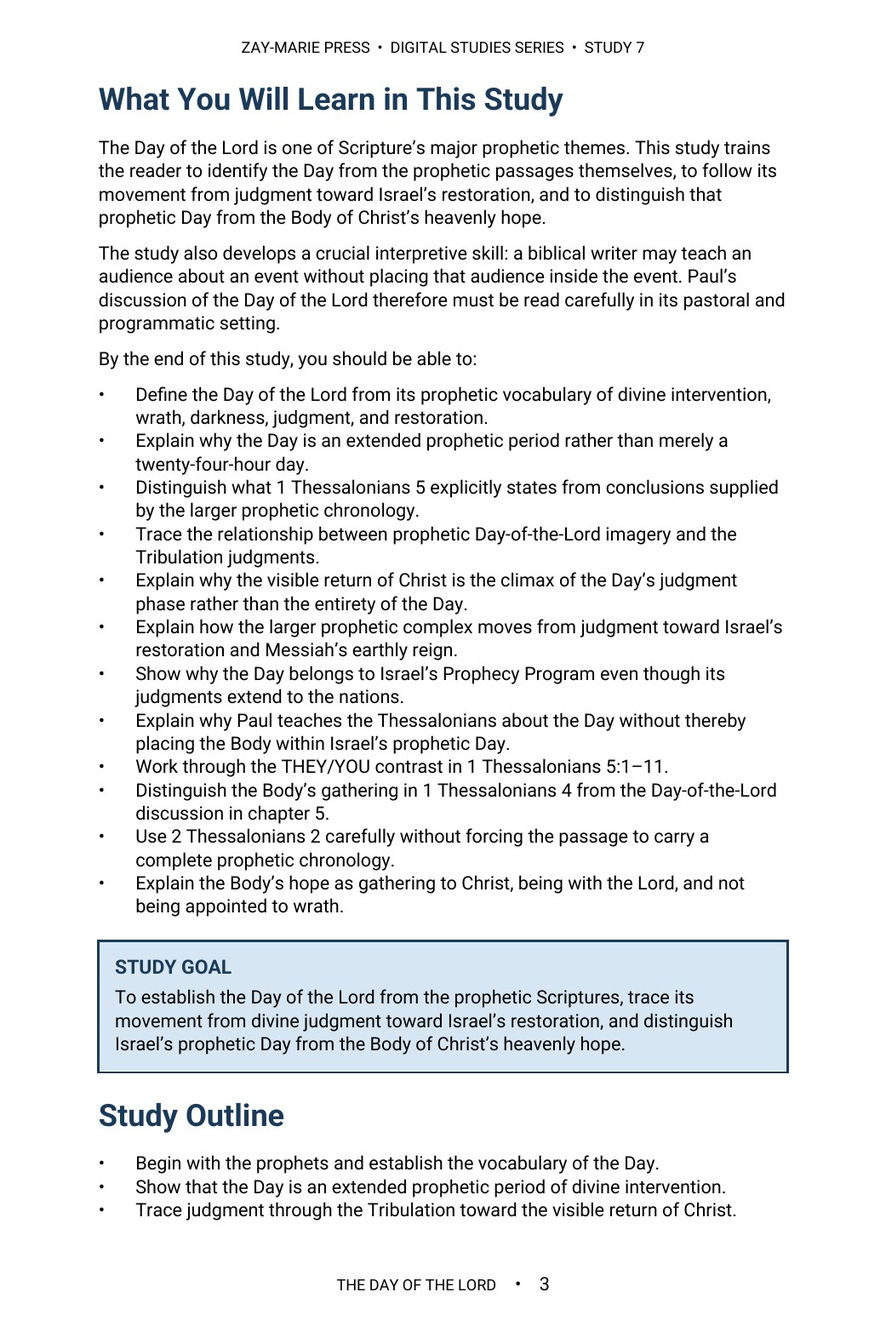
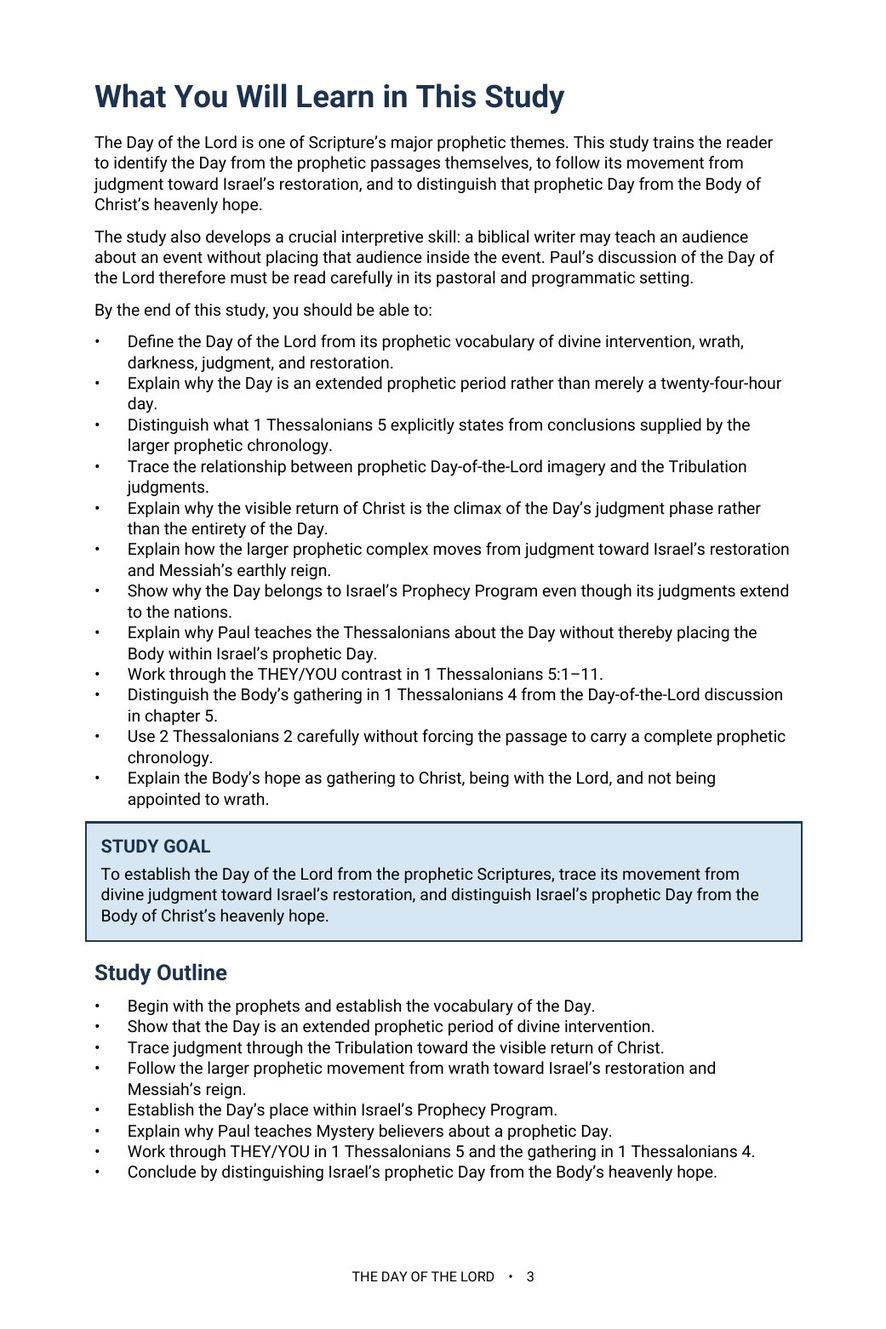
Study 7: retrofit to doctrinal upgrade and Study 52 page geometry (14 pp); page count, previews, trackers
Claude-Session: https://claude.ai/code/session_01KcENxFzE91mCRyTPWhcwnE

Changed region(s): [[0.0922, 0.0307, 0.9222, 0.9219], [0.3996, 0.9526, 0.5533, 0.9834], [0.6763, 0.0307, 0.707, 0.0615]]

diff --git a/study-07-the-day-of-the-lord.html b/study-07-the-day-of-the-lord.html
@@ -14,6 +14,6 @@
 <section class="detail-section soft"><div class="wrap"><div class="eyebrow">WHAT YOU’LL STUDY</div><h2>Keep the Day and the Hope Distinct</h2><div class="study-points"><div class="study-point"><h3>The Day Begins in Prophecy</h3><p>Establish its prophetic vocabulary, purpose, and extended character.</p></div><div class="study-point"><h3>Judgment, Wrath, and Return</h3><p>Follow the Day through judgment to its visible climax in Christ’s return.</p></div><div class="study-point"><h3>Israel’s Restoration and Kingdom Hope</h3><p>See why judgment belongs within Israel’s prophetic future and restoration.</p></div><div class="study-point"><h3>Why Paul Teaches the Body About the Day</h3><p>Learn how a Pauline epistle can address a prophetic subject without redefining its setting.</p></div><div class="study-point"><h3>THEY and YOU</h3><p>Work through Paul’s contrast in 1 Thessalonians 5 between those overtaken by the Day and believers identified differently.</p></div><div class="study-point"><h3>The Body’s Gathering and Hope</h3><p>Keep 1 Thessalonians 4 distinct from the Day of the Lord in chapter 5.</p></div></div></div></section>
 <section class="detail-section cream"><div class="wrap"><div class="eyebrow">KEY SCRIPTURES</div><h2>Examine the Passages for Yourself</h2><div class="scripture-grid"><div class="scripture-card"><h3>Joel 2:1–31</h3><p>Provides the prophetic vocabulary of darkness, wrath, and the Day’s intervention.</p></div><div class="scripture-card"><h3>Isaiah 13:6–13</h3><p>Associates the Day with divine judgment and cosmic disturbance.</p></div><div class="scripture-card"><h3>Zephaniah 1:14–18</h3><p>Describes the Day as a period of wrath, distress, and devastation.</p></div><div class="scripture-card"><h3>Zechariah 14:1–9</h3><p>Connects the Day with the Lord’s visible intervention and Kingdom reign.</p></div><div class="scripture-card"><h3>1 Thessalonians 4:13–18</h3><p>Establishes the Body’s gathering to Christ and enduring relationship with Him.</p></div><div class="scripture-card"><h3>1 Thessalonians 5:1–11</h3><p>Places the Day of the Lord beside Paul’s THEY/YOU distinction and assurance concerning wrath.</p></div><div class="scripture-card"><h3>2 Thessalonians 2:1–12</h3><p>Addresses our gathering and the prophetic Day without forcing a complete chronology.</p></div><div class="scripture-card"><h3>Revelation 6–19</h3><p>Provides the broader judgment context leading toward Christ’s visible return.</p></div></div></div></section>
 <section class="detail-section"><div class="wrap"><div class="eyebrow">FROM THE STUDY</div><h2>Israel’s Prophetic Day and the Body’s Heavenly Hope</h2><div class="excerpt"><blockquote>“The Day of the Lord belongs to Israel’s prophetic future, while the Body of Christ possesses a distinct heavenly hope.”</blockquote><p>The distinction preserves both subjects: Israel’s prophetic Day of judgment, visible return, and restoration; and the Body’s gathering to Christ, enduring relationship with Him, and assurance that it is not appointed to wrath.</p></div></div></section>
-<section class="detail-section soft"><div class="wrap"><div class="eyebrow">A LOOK INSIDE</div><h2>Preview the Study Before You Purchase</h2><p class="preview-instruction">Click any page to enlarge it for reading.</p><div class="preview-grid"><div class="preview-card"><a class="preview-image-link" data-preview-lightbox href="assets/study-07-page-2.jpg"><img src="assets/study-07-page-2.jpg" alt="Study 7 interior preview — page 2, table of contents"/></a><div class="page-no">Page 2</div><h3>Table of Contents</h3><p>See the full structure of the study, from the introduction through the final synthesis.</p></div><div class="preview-card"><a class="preview-image-link" data-preview-lightbox href="assets/study-07-page-3.jpg"><img src="assets/study-07-page-3.jpg" alt="Study 7 interior preview — page 3, what you will learn"/></a><div class="page-no">Page 3</div><h3>What You Will Learn</h3><p>See the study’s goals, controls, and central question at a glance.</p></div><div class="preview-card"><a class="preview-image-link" data-preview-lightbox href="assets/study-07-page-6.jpg"><img src="assets/study-07-page-6.jpg" alt="Study 7 interior preview — page 6, sudden destruction and the Tribulation judgments"/></a><div class="page-no">Page 6</div><h3>Sudden Destruction and Judgment</h3><p>Separate what 1 Thessalonians 5 states outright from what the larger prophetic record adds.</p></div></div></div></section>
-<section class="detail-section"><div class="wrap"><div class="eyebrow">WHAT’S INCLUDED</div><h2>A Focused Study Built for<br/>Understanding and Teaching</h2><div class="includes-grid"><div class="include-item"><h3>16-Page In-Depth Biblical Study</h3><p>A careful biblical study of Israel’s prophetic Day and the Body’s distinct hope.</p></div><div class="include-item"><h3>15 Core Teaching Sections</h3><p>Follow the Day from prophetic warning through judgment, return, and restoration.</p></div><div class="include-item"><h3>THEY/YOU Worked Study</h3><p>Examine the contrast Paul draws in 1 Thessalonians 5.</p></div><div class="include-item"><h3>Prophetic Vocabulary Trace</h3><p>Compare the Scriptures that define the Day’s darkness, wrath, judgment, and restoration.</p></div><div class="include-item"><h3>18 Review Questions</h3><p>Test the study’s distinctions regarding the Day, wrath, gathering, and hope.</p></div><div class="include-item"><h3>Teaching Outline</h3><p>A ready framework for explaining the Day and the Body’s heavenly hope.</p></div><div class="include-item"><h3>Eight Guided Investigations</h3><p>Work directly from the prophets, Thessalonian letters, and judgment passages.</p></div><div class="include-item"><h3>Final Synthesis Exercise</h3><p>Write a complete explanation that keeps the Day and the hope distinct.</p></div></div></div></section>
-<section class="detail-section cream"><div class="wrap"><div class="final-buy"><div><div class="eyebrow">STUDY 7 · DIGITAL STUDY</div><h2>The Day of the Lord</h2><p>16-page digital PDF · For personal use</p></div><div class="final-offer"><div class="detail-price">$5.99</div><span class="detail-button pending" aria-disabled="true">Get the Study</span></div></div><a class="back-link" href="digital-studies.html">← Back to All Digital Studies</a></div></section><section class="study-method-course-bridge"><div class="wrap"><div class="study-method-course-panel"><div><div class="eyebrow">BUILD THE INTERPRETIVE METHOD</div><h2>Want More Than a Focused Study?</h2><p>Digital Studies examine particular biblical subjects and difficult passages. The 40-lesson Biblical Hermeneutics course teaches a complete, repeatable method for establishing meaning in context, determining proper assignment, and making responsible application.</p></div><a class="btn btn-primary" href="biblical-hermeneutics-course.html">BIBLICAL HERMENEUTICS COURSE</a></div></div></section></main><div class="preview-lightbox" id="preview-lightbox" role="dialog" aria-modal="true" aria-label="Enlarged study page preview"><button class="preview-lightbox-close" type="button" aria-label="Close enlarged preview">×</button><img src="" alt=""/><div class="preview-lightbox-hint">Scroll to read the full page · Press Esc or click outside the page to close</div></div><footer class="site-footer"><div class="wrap footer-grid"><div class="footer-about"><h3>Zay-Marie Press</h3><p class="footer-tagline"><em>Where the Bible Means What It Says.</em></p><p>Zay-Marie Press is a Christian theological publisher dedicated to producing doctrinally precise, carefully structured biblical resources that equip pastors, teachers, and serious students with clarity, depth, and Scripture-anchored truth.</p><p><a href="https://zaymariepress.com">zaymariepress.com</a><br/><a href="mailto:info@zaymariepress.com">info@zaymariepress.com</a></p></div><div class="footer-column"><h3>Explore</h3><div class="footer-links-stacked"><a href="books.html">Books</a><br/><a href="series.html">Series</a><br/><a href="biblical-hermeneutics-course.html">Course</a><br/><a href="digital-studies.html">Digital Studies</a><br/><a href="resources.html">Resources</a><br/><a href="bible-book-summaries.html">Bible Book Summaries</a><br/><a href="doctrinal-packets.html">Doctrinal Packets</a><br/><a href="historical-drift.html">Historical Drift</a><br/><a href="about.html">About</a><br/><a href="contact.html">Contact</a></div></div><div class="footer-column"><h3>Reader Support</h3><div class="footer-links-stacked"><a href="reader-support.html#faq">FAQ</a><br/><a href="reader-support.html#shipping-returns">Shipping &amp; Returns</a><br/><a href="reader-support.html#digital-downloads">Digital Downloads</a><br/><a href="reader-support.html#contact-support">Contact Support</a></div></div><div class="footer-column"><h3>Acts Overlap</h3><p><strong>Acts Overlap Theology Series</strong></p><p><em>Two Distinct Streams. One Overlap.</em></p><p><a href="series.html">Series Overview</a></p></div></div><div class="wrap footer-bottom">© 2026 Zay-Marie Press. All rights reserved.</div></footer><script src="site.js"></script><script>(function(){var box=document.getElementById("preview-lightbox"),img=box.querySelector("img"),close=box.querySelector(".preview-lightbox-close"),hint=box.querySelector(".preview-lightbox-hint"),hintTimer;function shut(){clearTimeout(hintTimer);box.classList.remove("open");hint.classList.remove("fade");document.body.style.overflow="";img.src=""}document.querySelectorAll("[data-preview-lightbox]").forEach(function(a){a.addEventListener("click",function(e){e.preventDefault();clearTimeout(hintTimer);img.src=a.getAttribute("href");img.alt=a.querySelector("img").alt;hint.classList.remove("fade");box.classList.add("open");document.body.style.overflow="hidden";box.scrollTop=0;hintTimer=setTimeout(function(){hint.classList.add("fade")},3000)})});close.addEventListener("click",shut);box.addEventListener("click",function(e){if(e.target===box)shut()});document.addEventListener("keydown",function(e){if(e.key==="Escape"&&box.classList.contains("open"))shut()})})();</script></body></html>
+<section class="detail-section soft"><div class="wrap"><div class="eyebrow">A LOOK INSIDE</div><h2>Preview the Study Before You Purchase</h2><p class="preview-instruction">Click any page to enlarge it for reading.</p><div class="preview-grid"><div class="preview-card"><a class="preview-image-link" data-preview-lightbox href="assets/study-07-page-2.jpg"><img src="assets/study-07-page-2.jpg" alt="Study 7 interior preview — page 2, table of contents"/></a><div class="page-no">Page 2</div><h3>Table of Contents</h3><p>See the full structure of the study, from the introduction through the final synthesis.</p></div><div class="preview-card"><a class="preview-image-link" data-preview-lightbox href="assets/study-07-page-3.jpg"><img src="assets/study-07-page-3.jpg" alt="Study 7 interior preview — page 3, what you will learn"/></a><div class="page-no">Page 3</div><h3>What You Will Learn</h3><p>See the study’s goals, controls, and central question at a glance.</p></div><div class="preview-card"><a class="preview-image-link" data-preview-lightbox href="assets/study-07-page-5.jpg"><img src="assets/study-07-page-5.jpg" alt="Study 7 interior preview — page 5, sudden destruction and the prophetic Day"/></a><div class="page-no">Page 5</div><h3>Sudden Destruction and Judgment</h3><p>Separate what 1 Thessalonians 5 states outright from what the larger prophetic record adds.</p></div></div></div></section>
+<section class="detail-section"><div class="wrap"><div class="eyebrow">WHAT’S INCLUDED</div><h2>A Focused Study Built for<br/>Understanding and Teaching</h2><div class="includes-grid"><div class="include-item"><h3>14-Page In-Depth Biblical Study</h3><p>A careful biblical study of Israel’s prophetic Day and the Body’s distinct hope.</p></div><div class="include-item"><h3>15 Core Teaching Sections</h3><p>Follow the Day from prophetic warning through judgment, return, and restoration.</p></div><div class="include-item"><h3>THEY/YOU Worked Study</h3><p>Examine the contrast Paul draws in 1 Thessalonians 5.</p></div><div class="include-item"><h3>Prophetic Vocabulary Trace</h3><p>Compare the Scriptures that define the Day’s darkness, wrath, judgment, and restoration.</p></div><div class="include-item"><h3>18 Review Questions</h3><p>Test the study’s distinctions regarding the Day, wrath, gathering, and hope.</p></div><div class="include-item"><h3>Teaching Outline</h3><p>A ready outline for explaining the Day and the Body’s heavenly hope.</p></div><div class="include-item"><h3>Eight Guided Investigations</h3><p>Work directly from the prophets, Thessalonian letters, and judgment passages.</p></div><div class="include-item"><h3>Final Synthesis Exercise</h3><p>Write a complete explanation that keeps the Day and the hope distinct.</p></div></div></div></section>
+<section class="detail-section cream"><div class="wrap"><div class="final-buy"><div><div class="eyebrow">STUDY 7 · DIGITAL STUDY</div><h2>The Day of the Lord</h2><p>14-page digital PDF · For personal use</p></div><div class="final-offer"><div class="detail-price">$5.99</div><span class="detail-button pending" aria-disabled="true">Get the Study</span></div></div><a class="back-link" href="digital-studies.html">← Back to All Digital Studies</a></div></section><section class="study-method-course-bridge"><div class="wrap"><div class="study-method-course-panel"><div><div class="eyebrow">BUILD THE INTERPRETIVE METHOD</div><h2>Want More Than a Focused Study?</h2><p>Digital Studies examine particular biblical subjects and difficult passages. The 40-lesson Biblical Hermeneutics course teaches a complete, repeatable method for establishing meaning in context, determining proper assignment, and making responsible application.</p></div><a class="btn btn-primary" href="biblical-hermeneutics-course.html">BIBLICAL HERMENEUTICS COURSE</a></div></div></section></main><div class="preview-lightbox" id="preview-lightbox" role="dialog" aria-modal="true" aria-label="Enlarged study page preview"><button class="preview-lightbox-close" type="button" aria-label="Close enlarged preview">×</button><img src="" alt=""/><div class="preview-lightbox-hint">Scroll to read the full page · Press Esc or click outside the page to close</div></div><footer class="site-footer"><div class="wrap footer-grid"><div class="footer-about"><h3>Zay-Marie Press</h3><p class="footer-tagline"><em>Where the Bible Means What It Says.</em></p><p>Zay-Marie Press is a Christian theological publisher dedicated to producing doctrinally precise, carefully structured biblical resources that equip pastors, teachers, and serious students with clarity, depth, and Scripture-anchored truth.</p><p><a href="https://zaymariepress.com">zaymariepress.com</a><br/><a href="mailto:info@zaymariepress.com">info@zaymariepress.com</a></p></div><div class="footer-column"><h3>Explore</h3><div class="footer-links-stacked"><a href="books.html">Books</a><br/><a href="series.html">Series</a><br/><a href="biblical-hermeneutics-course.html">Course</a><br/><a href="digital-studies.html">Digital Studies</a><br/><a href="resources.html">Resources</a><br/><a href="bible-book-summaries.html">Bible Book Summaries</a><br/><a href="doctrinal-packets.html">Doctrinal Packets</a><br/><a href="historical-drift.html">Historical Drift</a><br/><a href="about.html">About</a><br/><a href="contact.html">Contact</a></div></div><div class="footer-column"><h3>Reader Support</h3><div class="footer-links-stacked"><a href="reader-support.html#faq">FAQ</a><br/><a href="reader-support.html#shipping-returns">Shipping &amp; Returns</a><br/><a href="reader-support.html#digital-downloads">Digital Downloads</a><br/><a href="reader-support.html#contact-support">Contact Support</a></div></div><div class="footer-column"><h3>Acts Overlap</h3><p><strong>Acts Overlap Theology Series</strong></p><p><em>Two Distinct Streams. One Overlap.</em></p><p><a href="series.html">Series Overview</a></p></div></div><div class="wrap footer-bottom">© 2026 Zay-Marie Press. All rights reserved.</div></footer><script src="site.js"></script><script>(function(){var box=document.getElementById("preview-lightbox"),img=box.querySelector("img"),close=box.querySelector(".preview-lightbox-close"),hint=box.querySelector(".preview-lightbox-hint"),hintTimer;function shut(){clearTimeout(hintTimer);box.classList.remove("open");hint.classList.remove("fade");document.body.style.overflow="";img.src=""}document.querySelectorAll("[data-preview-lightbox]").forEach(function(a){a.addEventListener("click",function(e){e.preventDefault();clearTimeout(hintTimer);img.src=a.getAttribute("href");img.alt=a.querySelector("img").alt;hint.classList.remove("fade");box.classList.add("open");document.body.style.overflow="hidden";box.scrollTop=0;hintTimer=setTimeout(function(){hint.classList.add("fade")},3000)})});close.addEventListener("click",shut);box.addEventListener("click",function(e){if(e.target===box)shut()});document.addEventListener("keydown",function(e){if(e.key==="Escape"&&box.classList.contains("open"))shut()})})();</script></body></html>

diff --git a/site.js b/site.js
@@ -62,7 +62,7 @@ const resourceModal=document.querySelector('#resource-modal'), resourceModalTitl
 if(resourceModal&&resourceModalTriggers.length){const closeResourceModal=()=>{resourceModal.hidden=true;document.body.classList.remove('resource-modal-open');lastResourceTrigger?.focus();};resourceModalTriggers.forEach(trigger=>trigger.addEventListener('click',()=>{lastResourceTrigger=trigger;if(resourceModalTitle)resourceModalTitle.textContent=trigger.dataset.title||'Resource';if(resourceModalDescription)resourceModalDescription.textContent=trigger.dataset.description||'';if(resourceModalLink){resourceModalLink.href=trigger.dataset.href||'#';resourceModalLink.textContent=trigger.dataset.linkText||'OPEN RESOURCE';}resourceModal.hidden=false;document.body.classList.add('resource-modal-open');resourceModalClose?.focus();}));resourceModalClose?.addEventListener('click',closeResourceModal);resourceModal.addEventListener('click',e=>{if(e.target===resourceModal)closeResourceModal();});document.addEventListener('keydown',e=>{if(e.key==='Escape'&&!resourceModal.hidden)closeResourceModal();});}
 
 /* Display the verified final-PDF page count at the primary purchase decision point. */
-const digitalStudyPageCounts={1:17,2:14,3:16,4:18,5:16,6:16,7:16,8:16,9:16,10:23,11:15,12:15,13:19,14:15,15:16,16:16,17:18,18:18,19:16,20:16,21:17,22:16,23:16,24:16,25:17,26:18,27:16,28:16,29:16,30:17,31:19,32:16,33:16,34:16,35:16,36:16,37:16,38:16,39:16,40:16,41:16,42:16,43:16,44:16,45:16,46:16,47:16,48:16,49:17,50:16,51:16,52:16,53:16,54:16,55:16,56:16,57:16,58:16,61:16,62:16,63:16,64:16,65:16,66:16,67:16,68:16,69:16,70:16,71:16};
+const digitalStudyPageCounts={1:17,2:14,3:16,4:18,5:16,6:16,7:14,8:16,9:16,10:23,11:15,12:15,13:19,14:15,15:16,16:16,17:18,18:18,19:16,20:16,21:17,22:16,23:16,24:16,25:17,26:18,27:16,28:16,29:16,30:17,31:19,32:16,33:16,34:16,35:16,36:16,37:16,38:16,39:16,40:16,41:16,42:16,43:16,44:16,45:16,46:16,47:16,48:16,49:17,50:16,51:16,52:16,53:16,54:16,55:16,56:16,57:16,58:16,61:16,62:16,63:16,64:16,65:16,66:16,67:16,68:16,69:16,70:16,71:16};
 const digitalStudyMatch=window.location.pathname.match(/\/study-(\d+)-/i);
 const digitalStudyFormat=document.querySelector('.detail-hero .detail-format');
 if(digitalStudyMatch&&digitalStudyFormat){const studyNumber=Number(digitalStudyMatch[1]),pageCount=digitalStudyPageCounts[studyNumber];if(pageCount)digitalStudyFormat.textContent=`Digital PDF · ${pageCount} Pages`;}

diff --git a/CLAUDE.md b/CLAUDE.md
@@ -20,7 +20,7 @@ These are kept in the repo at `controlling-documents/` and are the current versi
 - As of v1.47 (publisher directive, 2026-10-02), §6 adds the **Interior Page Geometry and Text Layout Standard**, written into this file in the same pass: every Digital Study, earlier studies included, is set on the later studies' page and layout, not only in Roboto at the same sizes. Page 483.846 × 725.754 pt (9677 × 14515 twips) for cover and interior; cover its own full-bleed section (360 twip margins, no footer); interior margins top 864, bottom 1224, left/right 1031, header 400, footer 475; body left-aligned and flush left with no first-line indent (9 pt black Roboto Regular, 6 pt after, 0 before, 1.08); bold only for run-in leads ("Read:", "Purpose:", "Bring Your Findings Together:") and short emphasis, never a whole paragraph; lists 0 pt after each item and 6 pt after the last, 1.08; callout boxes 7815 twips wide with −100 twip indent; TOC right tab with dot leaders at 7615 twips; only the TOC and What You Will Learn start new pages, later sections flow continuously, and the imprint never stands alone. An earlier study built on any other page size (Letter 612 × 792, 432 × 648) is rebuilt to this geometry when reopened or retrofitted, the page count is recounted and the website updated, and the Heading 1 14 pt / TOC-spacing exemptions for Studies 1–5 and 9 no longer apply to a reopened study. In every study check (Step 1) measure page size, margins, first-line indents, whole-paragraph bold, list spacing, callout width and the TOC tab against Study 52 and report differences. Study 1 is the first earlier study rebuilt to it (17 pages). Preview images are rendered at the page's own aspect (1041×1562 for this page), not stretched.
 **`controlling-documents/Digital_Studies_Relationship_Map_v1.39.md`** — records each study's distinct subject, its related studies, the eight priced six-study collections, the Paul's Missionary Journeys cross-reference map, and the five primary catalog categories (currently version 1.39, covers Studies 1–71; update it as new studies publish, bump the version number, rename the file to match, and log the change in its own version-history table — mirroring the Master Standard's `_vX.Y` filename convention). Check a proposed topic against it before recommending or writing a new study. (2026-09-28: the file was missing from this repo despite this note referencing it; replaced from the publisher's copy and bumped v1.15→v1.25 in the same pass. If this note ever again points to a version not present under `controlling-documents/`, ask the publisher for a copy rather than proceeding without the check.)
 - **`controlling-documents/Digital_Studies_Category_Standard_v1.1.md`** — FINAL and binding (publisher, 2026-10-01): the rules for the five primary catalog categories (Foundations, Israel & Prophecy, Body of Christ, Passages, Doctrinal Themes), the ordered decision procedure for new studies, the precedents, all 71 fixed assignments, and the cover-label form for each category. Read it before placing any card or cover label. Do not ask the publisher where a study belongs; apply the procedure and state the result. Only the publisher changes a ruling; then bump this Standard's version and filename, re-letter the cover, and update the Relationship Map.
-- **`controlling-documents/Doctrinal_Upgrade_Retrofit_Plan_v1.32.md`** — working tracker for retrofitting Studies 1–59 to the 2026-10-02 doctrinal upgrade (Framework/PAM v1.1, Master Standard v1.40, Rules 7–17): withdrawn-wording search keys, impact tiers, waves and the per-study method. Read it before continuing the retrofit in any session; update status, bump the version and rename the file as work proceeds.
+- **`controlling-documents/Doctrinal_Upgrade_Retrofit_Plan_v1.33.md`** — working tracker for retrofitting Studies 1–59 to the 2026-10-02 doctrinal upgrade (Framework/PAM v1.1, Master Standard v1.40, Rules 7–17): withdrawn-wording search keys, impact tiers, waves and the per-study method. Read it before continuing the retrofit in any session; update status, bump the version and rename the file as work proceeds.
 - **`controlling-documents/Doctrinal_Packet_Standard_v0.3.md`** — Doctrinal Packet Standard (DRAFT; §7 approved). Governs the separate Doctrinal Packets product strand (5-page interpretive PDFs per Bible book — a print-friendly cover as page 1 plus 4 content pages, $2.99, KJV, pilot: Genesis, live at `packet-genesis.html`, hub `doctrinal-packets.html`; site pages say "5 Pages", cover styles live in `packets.css`, Old Testament blue and New Testament soft pale green, hub listed in Bible order). **Preview rule (publisher directive, 2026-09-29, packets only):** previews show about one page's worth in two cropped views (top of page 1 through the anchor texts; the chart section) — never the exegesis, architecture, Mystery contrast, logic chain, outline, or closing. Master Standard §16/§17 still govern Digital Studies. Bump the version and rename the file as the Standard is finalized.
 - **`controlling-documents/Preview_Page_Spoiler_Retrofit_Audit_v1.4.md`** — working tracker for the Studies 1–60 preview-page conclusion-spoiler retrofit (see the section below). Read it before continuing that audit in any session; update its status fields and changelog, bump the version, and rename the file to match as the audit proceeds — same `_vX.Y` convention as the other controlling documents. As of v1.1, the website-side half was DONE: all 60 studies' "What You'll Study" text was judged against the rule (methodology documented in the file) and 22 points across 11 studies were rewritten and pushed; an unrelated Study 22 content bug (Study 21's content had leaked into it) was also found and fixed. As of v1.2, the publisher supplied Studies 1–60's interior production PDFs and the interior-PDF half was also surveyed (read-only): 10 studies (37, 41, 45, 47, 48, 49, 51, 52, 53, 54) were found to have at least one interior "What You Will Learn" violation, 50 studies were confirmed compliant, and the orphaned `assets/study-45-sanctification-under-grace.docx` (removed from the repo per the publisher in v1.0) was confirmed word-for-word identical to Study 45's actual production interior PDF content. As of v1.3, the publisher supplied editable DOCX sources for all 10 violating studies; all 15 violating points were rewritten and approved, delivered as corrected final PDFs, and — along the way — a second defect was found and fixed (Studies 47 and 48's source DOCX still had an unintegrated cover placeholder despite both being long-published live with real covers; fixed by inserting the existing approved cover art). The website's "What You Will Learn" preview image (`study-NN-page-3.jpg`) was regenerated from the corrected content for all 10 studies and pushed to `main` (commit `cea1859`), verified against a fresh clone. **The website side of this audit is now fully compliant for all 60 studies.** Outstanding: the publisher's purchasable interior PDF files themselves have corrected versions delivered, but distribution to existing purchasers was decided by the publisher on 2026-09-29: silent swap of the files behind the existing downloads, no reissue notice (recorded in the v1.4 changelog entry; the product files are not in this repo).
 

diff --git a/controlling-documents/Doctrinal_Upgrade_Retrofit_Plan_v1.33.md b/controlling-documents/Doctrinal_Upgrade_Retrofit_Plan_v1.33.md
@@ -44,6 +44,7 @@ Working tracker for correcting published studies to the Framework/PAM v1.1, Mast
 | 53 Redemption | Tier 2 read (anchors, Gal 3, Romans 11) | DONE 2026-10-02 (v1.29): interior corrected (16 pp, Roboto; Study Summary TOC entry 13->12). 12 'The Framework does not assign…' lines converted (passage / letter / Hebrews); Revelation anchor removed; Gal 3:13 anchor replaced by the standing Galatians 3 sentence; Romans 11 four boundaries + triad added (2.4); Revelation 5:9 moved from the Body's group to Israel's group in Guided Further Study (Revelation belongs wholly to Israel's Prophecy Program, Body absent). No overlap/Acts 28/synagogue content. Website: preview 5 re-rendered (1041x1347), 'structured framework' -> 'structured outline'. |
 | 1 The Bride of Christ | Tier 2 read (overlap, Romans 11, Acts 28, Rule 18) | DONE 2026-10-02 (v1.31): interior corrected and rebuilt to the later studies' page geometry (483.85 x 725.75 pt, Study 52 margins and footer, no first-line indents, run-in-lead bold only, Study 52 list spacing, continuous flow) (17 pp, Roboto only; TOC renumbered). Overlap sentence, Rule 17 remnant sentence, Rule 18 (full and short form), Acts 28 'national judicial suspension, not abolition and not a transfer', Romans 11 four boundaries + triad (new 6.1), 'framework' wording removed from reader text, anchors in reader-facing form. Conformance: five boxed callouts incl. Study Goal (sixth demoted to body paragraph), body 6/0/1.08, Heading 1 17 pt / Heading 2 12 pt navy #1B3350, body black Roboto Regular 9 pt, TOC at body spacing with dot leaders, footer added, section 10 imprint (tagline and URL lines removed). Website: 'bridal framework' and 'ready framework' copy replaced; previews 2, 3 and 15 re-rendered at 1041x1562 (Guided Further Study moved from page 13 to 15); site.js 1:17. |
 | 3 The Body of Christ and the Tribulation | Tier 2 read (Acts 28, overlap, Revelation, anchors) | DONE 2026-10-02 (v1.32): interior corrected and rebuilt to the Study 52 page geometry (16 pp, Roboto Regular/Bold/Italic; TOC renumbered). Acts 28 'national judicial suspension, not abolition and not a transfer' in 7 places; standing overlap sentence added; Body-absent-from-Revelation and Gentiles-in-prophetic-scenes lines added; 4 'framework' wordings removed; anchors for Thessalonians and Philippians 3:20; running header removed; standard copyright text. Cover title re-lettered at 70% (TRIBULATION a further 25%) at the publisher's direction. Website: page counts 16, previews 2, 3 and 10 (comparison table moved from page 11), cover replaced, 3 'framework' phrases removed; site.js 3:16. |
+| 7 The Day of the Lord | Tier 2 read (Day-of-the-Lord boundary, Revelation, anchors) | DONE 2026-10-02 (v1.33): interior corrected and rebuilt to the Study 52 page geometry (14 pp, Roboto Regular/Bold/Italic). Day-of-the-Lord reading already conformed (Body not in the Day; THEY/YOU); added the Revelation/Daniel and Gentiles-in-the-Day lines, the Thessalonians reader-facing anchor; 8 'framework' uses reworded; lowercase 'lord/christ' and stray capitals fixed; imprint set to the standard text; cover section made full-bleed with the approved ISRAEL & PROPHECY cover. Website: site.js 7:14, '14-Page', 'ready outline', preview 6->5 at 1041x1562. |
 | 39 The Church's Relationship to Israel's Scriptures | Abrahamic/covenant participation + overlap sentence | DONE 2026-10-02 (v1.23): interior corrected (16 pp, Roboto). Withdrawn overlap sentence replaced with the standing sentence and Acts 28 'not abolition and not a transfer' added (§9); 'Gentiles participate spiritually' replaced by the standing Galatians 3 sentence (§8) and 'whole/every covenant term' partial-transfer wording tightened (§8, Study Summary, Key Distinctions table); Romans 11 four-point list and triad added (Introduction); 2 Timothy and Philippians anchors converted and a Colossians anchor added. Sections moved down: TOC updated (7 numbers); 16 pp. Website: previews 2, 3, 5 re-rendered at 1041x1565; site.js 39:16 unchanged |
 | 40 Who Is Abraham's Seed? | Gal 3 / Abrahamic participation (core) | DONE 2026-10-02 (v1.22): interior corrected (16 pp, Roboto). Withdrawn overlap sentence replaced with the standing sentence (Introduction); Romans 11 four-point list and triad added (Introduction); the 'Gentiles participate spiritually / Abrahamic heirship, benefit, inheritance, connection' family replaced with the standing Galatians 3 sentence and plain wording (§6, §8, §10, Study Summary, Key Distinctions table); Romans 4 'participate in promise' and Teaching Outline 'share that benefit' reworded. Sections moved down: TOC updated (Conclusion p10, Scripture-Tracing p11, Guided Further Study p16); 16 pp. Website: preview pages 2, 3 and 4 re-rendered; site.js 40:16 unchanged |
 | 52 Sonship and Adoption | Gal 3 / Abrahamic participation | DONE 2026-10-02 (v1.21): interior corrected (16 pp, Roboto). Withdrawn Galatians 3:26–29 'Gentiles participate spiritually / ethnic distinction is kept' wording replaced by the standing Galatians 3 sentence (3.4) and the 'participation in the seed is spiritual' line reworded; Study 40 pointer parenthetical removed; nine 'The Framework does not assign…' anchors and the Hebrews sentence converted to the reader-facing forms; Romans 11 four-point list and triad added (Group 3). Shorter anchors moved sections up a page, so TOC numbers updated (§5 p9, §6 p11, Conclusion p12, etc.); total still 16 pp. Website: page-2 (TOC) preview re-rendered; pages 3 and 5 unchanged |
@@ -109,3 +110,5 @@ Working tracker for correcting published studies to the Framework/PAM v1.1, Mast
 - v1.30 (2026-10-02): Study 1 retrofit complete (see row), including the new Master Standard conformance audit (callouts, spacing, TOC, type sizes and colours, footer, imprint) now run in every Step 1. Next: Wave 4 remainder (7, 8, 10, 23, 26, 29, 31, 32, 33): DOCX needed from the publisher for each.
 - v1.31 (2026-10-02): Study 1 rebuilt to the Study 52 page geometry at the publisher's direction (the earlier Letter-size build did not look like the later studies); 17 pp; website step redone (site.js 1:17, counts, previews). Next: Wave 4 remainder (7, 8, 10, 23, 26, 29, 31, 32, 33).
 - v1.32 (2026-10-02): Study 3 retrofit complete (see row). Next: Wave 4 remainder (7, 8, 10, 23, 26, 29, 31, 32, 33): DOCX needed from the publisher for each. Wave 5 notes added: Studies 1 and 21 imprints carry an extra 'Scripture quotations are from the King James Version (KJV)' sentence that Study 52 lacks; Study 1's 'Investigation' sub-headings are navy 12 pt where Study 52 uses bold black lines; preview images for 52/53 were cut to 1041x1347 from a taller page and look stretched (recheck).
+
+- v1.33 (2026-10-02): Study 7 retrofit complete (see row). Next: Wave 4 remainder (8, 10, 23, 26, 29, 31, 32, 33): DOCX needed from the publisher for each.

diff --git a/controlling-documents/Digital_Studies_PAM_Audit_v1.126.md b/controlling-documents/Digital_Studies_PAM_Audit_v1.126.md
@@ -355,3 +355,4 @@ Study 15 PDF not yet supplied. Typography: none of Studies 2, 3, 6, 8 is in EB G
 - v1.123 (2026-10-02): Study 1 retrofitted and brought to the Master Standard conformance audit: overlap, remnant, Rule 18, Acts 28 and Romans 11 wording applied; reader-facing anchors; five boxed callouts, TOC, type, footer and imprint conformed; 14 pp.
 - v1.124 (2026-10-02): Study 1 rebuilt to the later studies' page geometry and type treatment (17 pp); site counts and previews updated.
 - v1.125 (2026-10-02): Study 3 retrofitted: Acts 28 standing wording, overlap sentence, Revelation/Gentiles lines, 'framework' removed, Thessalonians and Philippians anchors; rebuilt to the standard page geometry (16 pp); cover title reduced at the publisher's direction.
+- v1.126 (2026-10-02): Study 7 retrofitted: Revelation/Daniel and Gentiles-in-the-Day lines, Thessalonians anchor, 'framework' wording removed; rebuilt to the standard page geometry (14 pp); approved cover swapped in.
